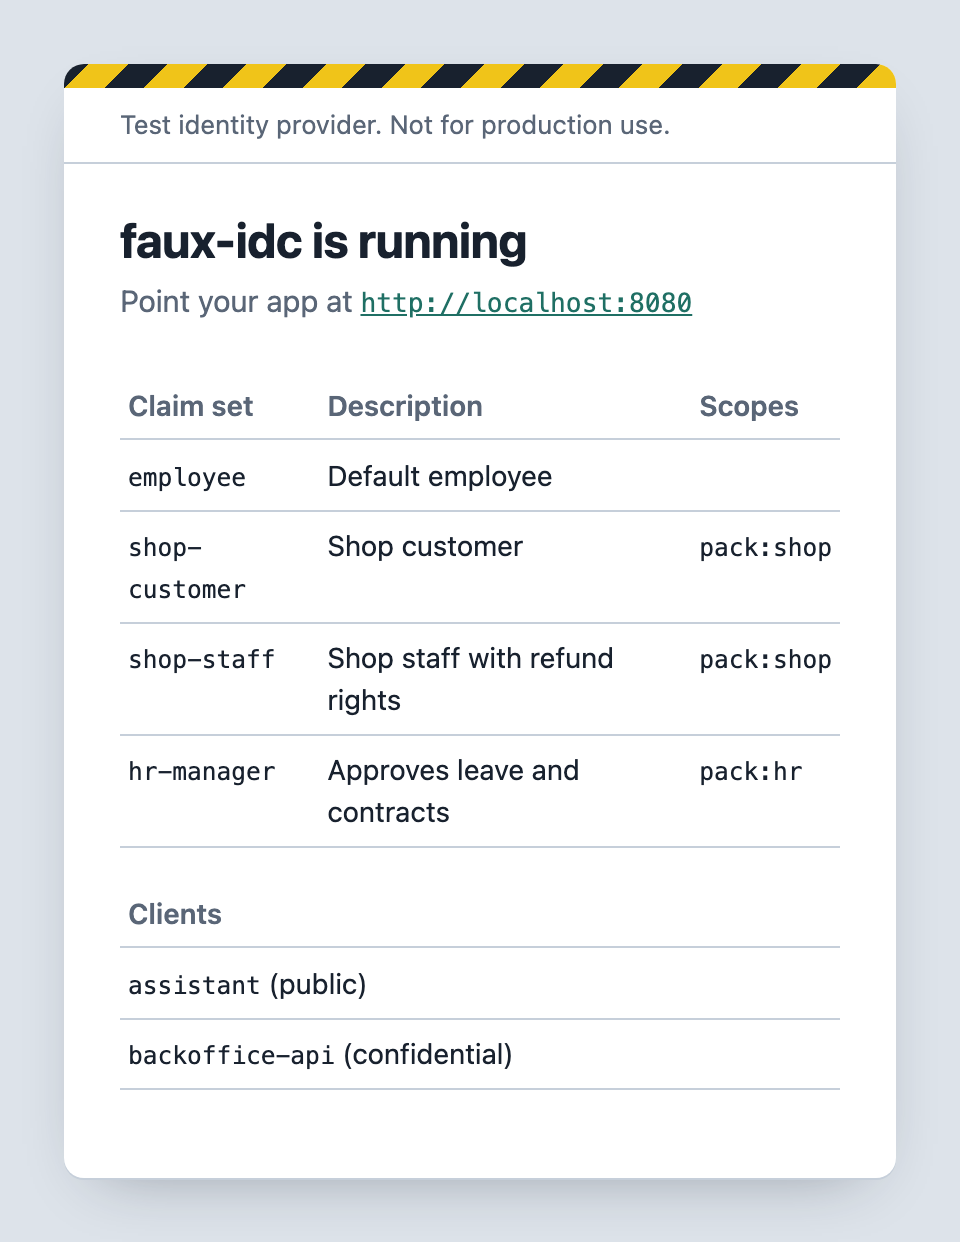
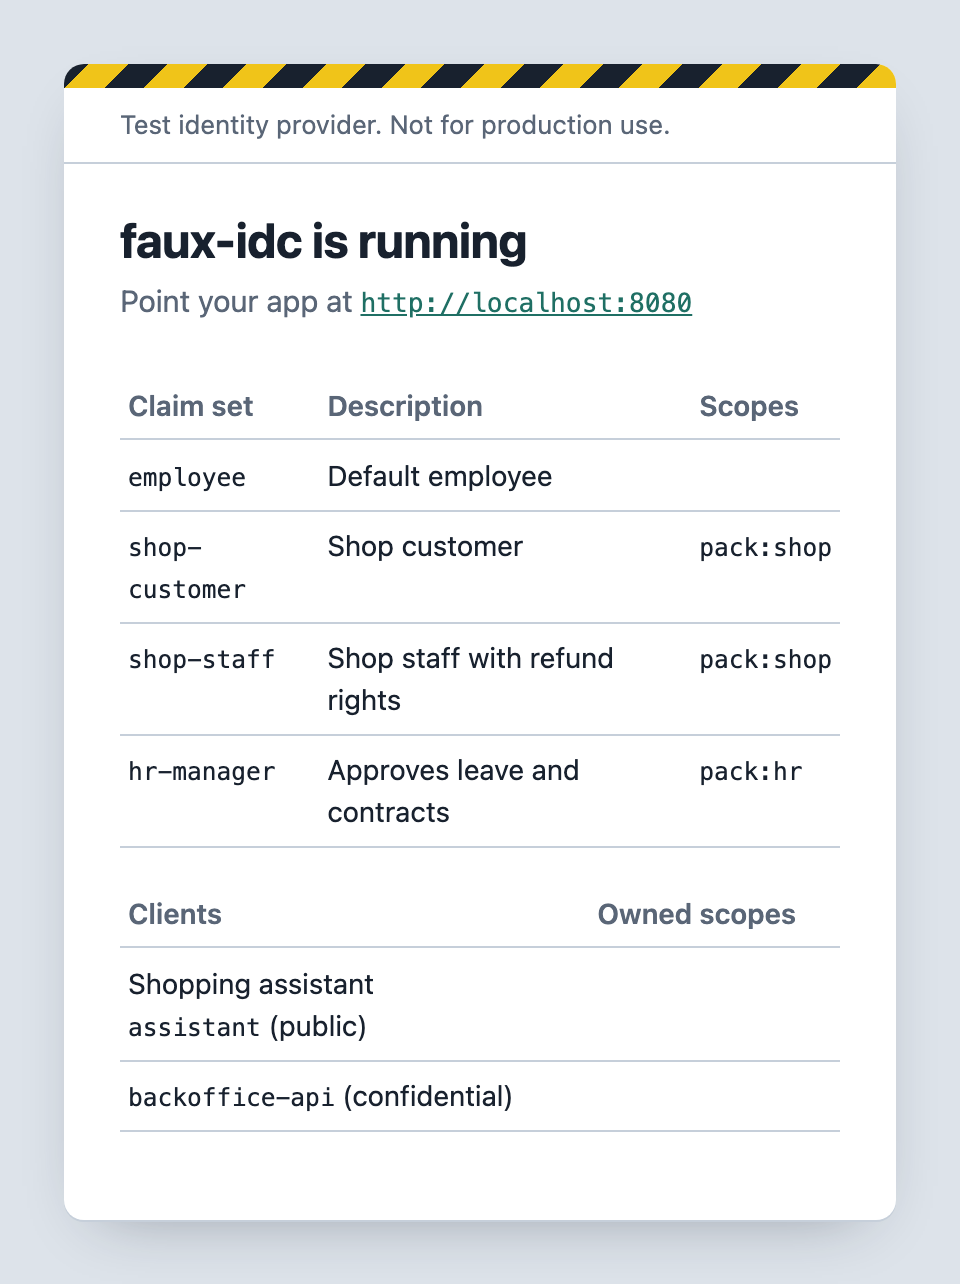
feat: show the client name on the home page
The clients table shows the name above the client_id. The home page screenshot has a client with a name.

diff --git a/src/views.ts b/src/views.ts
@@ -157,7 +157,7 @@ export function homePage(cfg: Config, issuer: string) {
     <table>
       <tr><th>Clients</th><th>Owned scopes</th></tr>
       ${cfg.clients.length
-        ? cfg.clients.map((cl) => html`<tr><td><code>${cl.clientId}</code>${cl.clientSecret ? ' (confidential)' : ' (public)'}</td><td>${cl.scopes.map((sc) => html`<code>${sc}</code> `)}</td></tr>`)
+        ? cfg.clients.map((cl) => html`<tr><td>${cl.name ? html`${cl.name}<br>` : ''}<code>${cl.clientId}</code>${cl.clientSecret ? ' (confidential)' : ' (public)'}</td><td>${cl.scopes.map((sc) => html`<code>${sc}</code> `)}</td></tr>`)
         : html`<tr><td colspan="2">Any client_id and redirect_uri is accepted.</td></tr>`}
     </table>`)
 }

diff --git a/test/client-name.test.ts b/test/client-name.test.ts
@@ -33,6 +33,18 @@ describe('the sign-in form', () => {
   })
 })
 
+describe('the home page', () => {
+  test('shows the name above the client_id of a client that has one', async () => {
+    const page = await (await fetch(`${base}/`)).text()
+    assert.match(page, /<td>Bo &lt;Portal&gt;<br><code>3f2a9c1e-spa<\/code>/)
+  })
+
+  test('shows only the client_id of a client without a name', async () => {
+    const page = await (await fetch(`${base}/`)).text()
+    assert.match(page, /<td><code>bo-backend<\/code>/)
+  })
+})
+
 describe('the name in the config', () => {
   test('is optional', () => {
     assert.equal(parseConfig({ clients: [{ clientId: 'a' }] }).clients[0].name, undefined)

diff --git a/README.md b/README.md
@@ -219,7 +219,7 @@ clients:
 ```
 
 The sign-in form then shows "Continue to **Shop portal**". A client without `name` shows its
-`client_id`.
+`client_id`. The home page shows the name above the `client_id`.
 
 ### Post-logout redirect URIs
 
